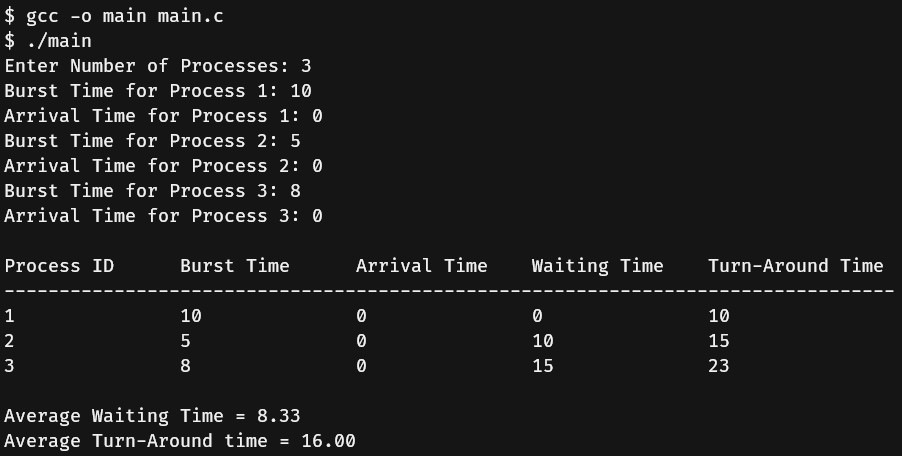
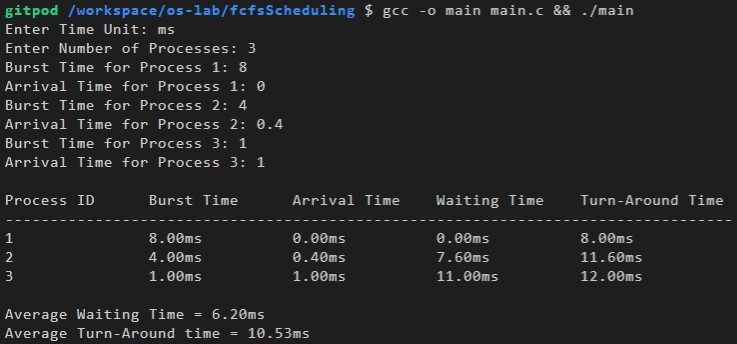
fixed fcfs for double values of time

diff --git a/sjfScheduling/main.c b/sjfScheduling/main.c
@@ -1,49 +1,43 @@
 /**
  * Write a program to implement SJF scheduling algorithm.
- * 
+ *
  * Written by Sudipto Ghosh for the University of Delhi
  */
 
+#include <limits.h>
 #include <stdio.h>
 #include <stdlib.h>
-#include <limits.h>
 
-struct process
-{
+struct process {
   int pid;
-  int burstTime;
-  int arrivalTime;
-  int waitingTime;
-  int turnAroundTime;
+  double burstTime;
+  double arrivalTime;
+  double waitingTime;
+  double turnAroundTime;
 };
 
-void computeWaitingTime(struct process *processes, int processCount)
-{
-  int remainingTime[processCount];
+void computeWaitingTime(struct process *processes, int processCount) {
+  double remainingTime[processCount];
 
   for (int i = 0; i < processCount; i++)
     remainingTime[i] = processes[i].burstTime;
 
-  int check = 0;
-  int min = INT_MAX;
-  int completionTime, time = 0;
+  double check = 0;
+  double min = INT_MAX;
+  double completionTime, time = 0;
   int complete = 0, shortest = 0;
 
-  while (complete != processCount)
-  {
-    for (int j = 0; j < processCount; j++)
-    {
-      if ((processes[j].arrivalTime <= time) &&
-          (remainingTime[j] < min) && remainingTime[j] > 0)
-      {
+  while (complete != processCount) {
+    for (int j = 0; j < processCount; j++) {
+      if ((processes[j].arrivalTime <= time) && (remainingTime[j] < min) &&
+          remainingTime[j] > 0) {
         min = remainingTime[j];
         shortest = j;
         check = 1;
       }
     }
 
-    if (check == 0)
-    {
+    if (check == 0) {
       time++;
       continue;
     }
@@ -54,16 +48,14 @@ void computeWaitingTime(struct process *processes, int processCount)
     if (min == 0)
       min = INT_MAX;
 
-    if (remainingTime[shortest] == 0)
-    {
+    if (remainingTime[shortest] == 0) {
       complete++;
       check = 0;
       completionTime = time + 1;
 
-      processes[shortest].waitingTime =
-          completionTime -
-          processes[shortest].burstTime -
-          processes[shortest].arrivalTime;
+      processes[shortest].waitingTime = completionTime -
+                                        processes[shortest].burstTime -
+                                        processes[shortest].arrivalTime;
 
       if (processes[shortest].burstTime < 0)
         processes[shortest].burstTime = 0;
@@ -73,61 +65,59 @@ void computeWaitingTime(struct process *processes, int processCount)
   }
 }
 
-void computeTurnAroundTime(struct process *processes, int processCount)
-{
+void computeTurnAroundTime(struct process *processes, int processCount) {
   for (int i = 0; i < processCount; i++)
     processes[i].turnAroundTime =
-        processes[i].burstTime +
-        processes[i].waitingTime;
+        processes[i].burstTime + processes[i].waitingTime;
 }
 
-void printAverageTimes(struct process *processes, int processCount)
-{
-  float totalWaitingTime = 0.0f;
-  float totalTurnAroundTime = 0.0f;
+void printAverageTimes(struct process *processes, int processCount,
+                       char *unit) {
+  double totalWaitingTime = 0.0;
+  double totalTurnAroundTime = 0.0;
   computeWaitingTime(processes, processCount);
   computeTurnAroundTime(processes, processCount);
-  printf("Process ID\tBurst Time\tArrival Time\tWaiting Time\tTurn-Around Time\n");
+  printf(
+      "Process ID\tBurst Time\tArrival Time\tWaiting Time\tTurn-Around Time\n");
   printf("--------------------------------------------------------");
   printf("-------------------------\n");
-  for (int i = 0; i < processCount; i++)
-  {
+  for (int i = 0; i < processCount; i++) {
     totalWaitingTime += processes[i].waitingTime;
     totalTurnAroundTime += processes[i].turnAroundTime;
-    printf("%d\t\t%d\t\t%d\t\t%d\t\t%d\n",
-           processes[i].pid,
-           processes[i].burstTime,
-           processes[i].arrivalTime,
-           processes[i].waitingTime,
-           processes[i].turnAroundTime);
+    printf("%d\t\t%.2lf%s\t\t%.2lf%s\t\t%.2lf%s\t\t%.2lf%s\n", processes[i].pid,
+           processes[i].burstTime, unit, processes[i].arrivalTime, unit,
+           processes[i].waitingTime, unit, processes[i].turnAroundTime, unit);
   }
-  printf("\nAverage Waiting Time = %.2f",
-         totalWaitingTime / processCount);
-  printf("\nAverage Turn-Around time = %.2f\n",
-         totalTurnAroundTime / processCount);
+  printf("\nAverage Waiting Time = %.2lf%s", totalWaitingTime / processCount,
+         unit);
+  printf("\nAverage Turn-Around time = %.2lf%s\n",
+         totalTurnAroundTime / processCount, unit);
+  return;
 }
 
-int main(void)
-{
+int main(void) {
   int processCount;
+  char unit[4] = {'\0'};
+
+  printf("Enter Time Unit: ");
+  fgets(unit, 3, stdin);
 
   printf("Enter Number of Processes: ");
   scanf("%i", &processCount);
 
   struct process processes[processCount];
 
-  for (int i = 0; i < processCount; i++)
-  {
+  for (int i = 0; i < processCount; i++) {
     processes[i].pid = i + 1;
     printf("Burst Time for Process %i: ", i + 1);
-    scanf("%d", &processes[i].burstTime);
+    scanf("%lf", &processes[i].burstTime);
     printf("Arrival Time for Process %i: ", i + 1);
-    scanf("%d", &processes[i].arrivalTime);
+    scanf("%lf", &processes[i].arrivalTime);
   }
 
   printf("\n");
 
-  printAverageTimes(processes, processCount);
+  printAverageTimes(processes, processCount, unit);
 
   return 0;
 }

diff --git a/fcfsScheduling/main.c b/fcfsScheduling/main.c
@@ -1,86 +1,86 @@
 /**
  * Write a program to implement FCFS scheduling algorithm.
- * 
+ *
  * Written by Sudipto Ghosh for the University of Delhi
  */
 
 #include <stdio.h>
 #include <stdlib.h>
+#define MAX_SIZE 100
 
-struct process
-{
+struct process {
   int pid;
-  int burstTime;
-  int arrivalTime;
-  int waitingTime;
-  int turnAroundTime;
+  double burstTime;
+  double arrivalTime;
+  double waitingTime;
+  double turnAroundTime;
 };
 
-void computeWaitingTime(struct process *processes, int processCount)
-{
-  processes[0].waitingTime = 0;
-  for (int i = 0; i < processCount - 1; i++)
-    processes[i + 1].waitingTime =
-        processes[i].burstTime +
-        processes[i].waitingTime;
+void computeWaitingTime(struct process *processes, int processCount) {
+  double completionTime = 0.0;
+  processes[0].waitingTime = 0.0;
+  for (int i = 1; i < processCount; i++) {
+    completionTime += processes[i - 1].burstTime;
+    processes[i].waitingTime = completionTime - processes[i].arrivalTime;
+  }
+  return;
 }
 
-void computeTurnAroundTime(struct process *processes, int processCount)
-{
+void computeTurnAroundTime(struct process *processes, int processCount) {
   for (int i = 0; i < processCount; i++)
     processes[i].turnAroundTime =
-        processes[i].burstTime +
-        processes[i].waitingTime -
-        processes[i].arrivalTime;
+        processes[i].burstTime + processes[i].waitingTime;
+  return;
 }
 
-void printAverageTimes(struct process *processes, int processCount)
-{
-  float totalWaitingTime = 0.0f;
-  float totalTurnAroundTime = 0.0f;
+void printAverageTimes(struct process *processes, int processCount,
+                       char *unit) {
+  double totalWaitingTime = 0.0;
+  double totalTurnAroundTime = 0.0;
+  double completionTimes[MAX_SIZE] = {0.0};
   computeWaitingTime(processes, processCount);
   computeTurnAroundTime(processes, processCount);
-  printf("Process ID\tBurst Time\tArrival Time\tWaiting Time\tTurn-Around Time\n");
+  printf(
+      "Process ID\tBurst Time\tArrival Time\tWaiting Time\tTurn-Around Time\n");
   printf("--------------------------------------------------------");
   printf("-------------------------\n");
-  for (int i = 0; i < processCount; i++)
-  {
+  for (int i = 0; i < processCount; i++) {
     totalWaitingTime += processes[i].waitingTime;
     totalTurnAroundTime += processes[i].turnAroundTime;
-    printf("%d\t\t%d\t\t%d\t\t%d\t\t%d\n",
-           processes[i].pid,
-           processes[i].burstTime,
-           processes[i].arrivalTime,
-           processes[i].waitingTime,
-           processes[i].turnAroundTime);
+    printf("%d\t\t%.2lf%s\t\t%.2lf%s\t\t%.2lf%s\t\t%.2lf%s\n", processes[i].pid,
+           processes[i].burstTime, unit, processes[i].arrivalTime, unit,
+           processes[i].waitingTime, unit, processes[i].turnAroundTime, unit);
   }
-  printf("\nAverage Waiting Time = %.2f",
-         totalWaitingTime / processCount);
-  printf("\nAverage Turn-Around time = %.2f\n",
-         totalTurnAroundTime / processCount);
+  printf("\nAverage Waiting Time = %.2lf%s", totalWaitingTime / processCount,
+         unit);
+  printf("\nAverage Turn-Around time = %.2lf%s\n",
+         totalTurnAroundTime / processCount, unit);
+  return;
 }
 
-int main(void)
-{
+int main(void) {
   int processCount;
+  char unit[4] = {'\0'};
+
+  printf("Enter Time Unit: ");
+  fgets(unit, 3, stdin);
 
   printf("Enter Number of Processes: ");
   scanf("%i", &processCount);
 
   struct process processes[processCount];
 
-  for (int i = 0; i < processCount; i++)
-  {
+  for (int i = 0; i < processCount; i++) {
     processes[i].pid = i + 1;
     printf("Burst Time for Process %i: ", i + 1);
-    scanf("%d", &processes[i].burstTime);
+    scanf("%lf", &processes[i].burstTime);
     printf("Arrival Time for Process %i: ", i + 1);
-    scanf("%d", &processes[i].arrivalTime);
+    scanf("%lf", &processes[i].arrivalTime);
   }
 
   printf("\n");
 
-  printAverageTimes(processes, processCount);
+  printAverageTimes(processes, processCount, unit);
 
   return 0;
 }
